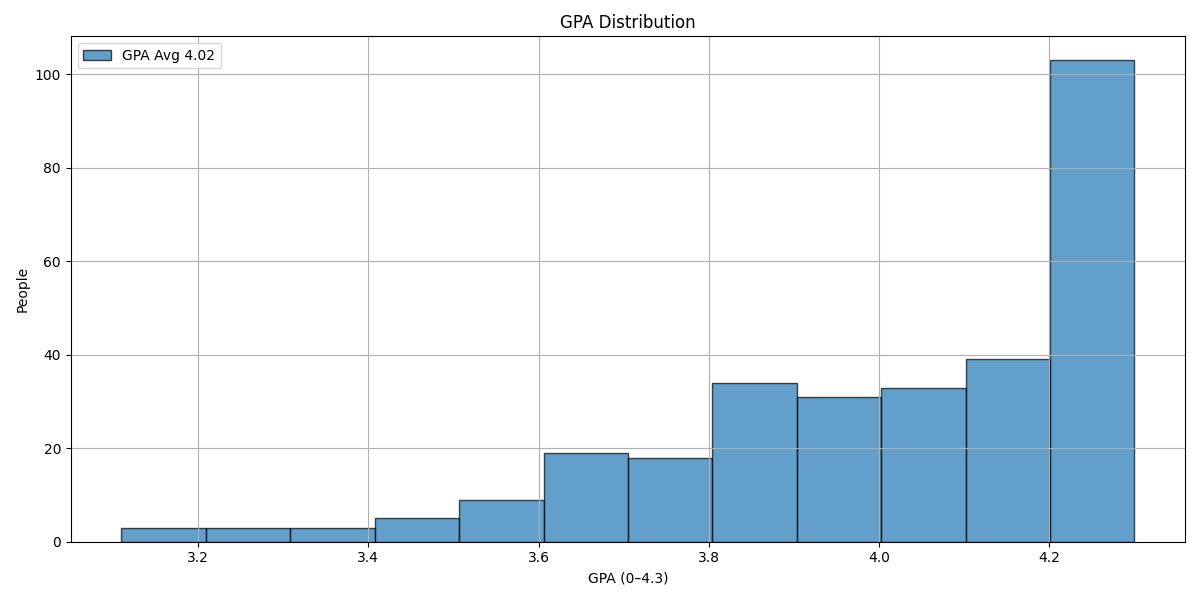
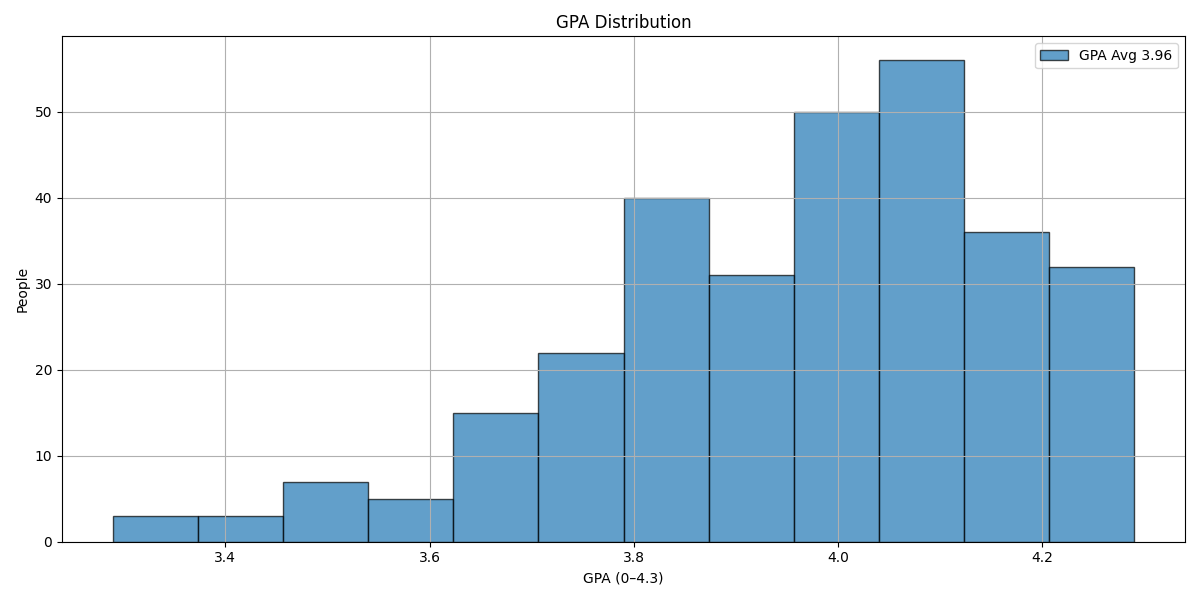
新增玩家成績顯示功能，調整角色行為方法以接受參數，更新 GPA 排行榜及相關圖表

diff --git a/character.py b/character.py
@@ -13,62 +13,80 @@ class Character:
         self.midterm = 0     # 期中考成績
         self.final = 0       # 期末考成績
         self.week_number = 0
-        self.lucky_prof = 0
+        self.lucky_prof = 3
         self.total_score = 0
         self.GPA = 0
         self.chosen = ['0']*17
         self.home = ""
+        self.last_week_change = [0,0,0,0]  # [心情, 體力, 社交, 知識]
 
-    def study(self):
-        growth = round(
+    def study(self, degree):
+        growth = int(
             self.intelligence * 0.11 +
-            self.mood * 0.08 +
-            self.energy * 0.05 +
-            self.social * 0.03, 2
+            self.mood * 0.05 +
+            self.energy * 0.08 +
+            self.social * 0.03
         )
         growth = round(growth/(1+((8 - self.week_number) * 0.1)),2) if self.week_number < 8 else round(growth/(1+((16 - self.week_number) * 0.1)),2)
-        self.knowledge = round(min(100, self.knowledge + growth), 2)
-        self.mood = max(0, self.mood - 10)
-        self.energy = max(0, self.energy - 15)
+        self.last_week_change = [-10, -15, 0, growth+3]
+        self.last_week_change = [int(grow * degree) for grow in self.last_week_change] 
+        
+        self.mood , self.energy , self.social, self.knowledge = \
+            max(0, self.mood + self.last_week_change[0]),\
+            max(0, self.energy + self.last_week_change[1]),\
+            max(0, self.social + self.last_week_change[2]),\
+            min(100, self.knowledge + self.last_week_change[3]) 
     
-        print(f"{self.name} 認真學習中 📖✨ 知識增加了 {growth:.2f} 點！現在是 {self.knowledge}/100")
+        #print(f"{self.name} 認真學習中 📖✨ 知識增加了 {growth:.2f} 點！現在是 {self.knowledge}/100")
 
-    def socialize(self):
-        growth = round(
+    def socialize(self, degree):
+        growth = int(
             (self.social - 30) * 0.1 +
             (self.mood - 50) * 0.03 +
-            (self.energy - 30) * 0.01, 2
+            (self.energy - 30) * 0.01
         )
-        self.social = min(100, self.social + int(growth))
-        if growth > 6:
-            self.knowledge = round(min(100, self.knowledge + growth), 2)
-        self.mood = min(100, self.mood + 5)
-        self.energy = max(0, self.energy - 15)
-        print(f"{self.name} 正在社交中 🤝🎉 社交能力提升了 {growth:.2f} 點！現在是 {self.social}/100")
+        self.last_week_change = [growth, -15, 0, 3+int(round(growth * self.social * 0.01))]
+        self.last_week_change = [int(grow * degree) for grow in self.last_week_change] 
+        
+        self.mood , self.energy , self.social, self.knowledge = \
+            min(100, self.mood + self.last_week_change[0]),\
+            max(0, self.energy + self.last_week_change[1]),\
+            max(0, self.social + self.last_week_change[2]),\
+            min(100, self.knowledge + self.last_week_change[3]) 
 
-    def play_game(self):
-        growth = round(
+        #print(f"{self.name} 正在社交中 🤝🎉 社交能力提升了 {growth:.2f} 點！現在是 {self.social}/100")
+
+    def play_game(self, degree):
+        growth = int(
             (100 - self.mood) * 0.2 +
             (self.intelligence - 50) * 0.02 +
             (self.energy - 30) * 0.01 -
-            (self.social - 30) * 0.01, 2
+            (self.social - 30) * 0.01
         )
-        self.mood = min(100, self.mood + int(growth))
-        self.energy = max(0, self.energy - 5)
-        self.knowledge = round(max(0, self.knowledge - growth * 0.5), 2)
-        print(f"{self.name} 正在玩遊戲 🎮😄 心情提升了 {growth:.2f} 點！現在是 {self.mood}/100")
+        self.last_week_change = [growth, -3, 0, 3+int(round(-growth * 0.1))]
+        self.last_week_change = [int(grow * degree) for grow in self.last_week_change] 
+        self.mood , self.energy , self.social, self.knowledge = \
+            min(100, self.mood + self.last_week_change[0]),\
+            max(0, self.energy + self.last_week_change[1]),\
+            max(0, self.social + self.last_week_change[2]),\
+            max(0, self.knowledge + self.last_week_change[3])
+        #print(f"{self.name} 正在玩遊戲 🎮😄 心情提升了 {growth:.2f} 點！現在是 {self.mood}/100")
 
-    def rest(self):
-        growth = round(
+    def rest(self, degree):
+        growth = int(
             (100 - self.energy) * 0.15 +
             (100 - self.mood) * 0.02 +
             (self.intelligence - 50) * 0.2 -
-            (self.social - 30) * 0.01, 2
+            (self.social - 30) * 0.01
         )
-        self.energy = min(100, self.energy + int(growth))
-        self.mood = min(100, self.mood + int(growth * 0.5))
-        self.knowledge = round(max(0, self.knowledge - growth * 0.3), 2)
-        print(f"{self.name} 正在休息 💤😌 體力提升了 {growth:.2f} 點！現在是 {self.energy}/100")
+        self.last_week_change = [int(growth*0.6), growth, 0, 3+int(round(-growth * 0.1))]
+        self.last_week_change = [int(grow * degree) for grow in self.last_week_change]
+        self.mood , self.energy , self.social, self.knowledge = \
+            min(100, self.mood + self.last_week_change[0]),\
+            min(100, self.energy + self.last_week_change[1]),\
+            max(0, self.social + self.last_week_change[2]),\
+            max(0, self.knowledge + self.last_week_change[3])
+        #print(f"{self.name} 正在休息 💤😌 體力提升了 {growth:.2f} 點！現在是 {self.energy}/100")
 
     def calculate_grade(self):
         score = round(self.knowledge * 0.45 + self.mood * 0.3 + self.energy * 0.2 + self.intelligence * 0.1 , 2)
@@ -83,14 +101,13 @@ class Character:
         return int(round(grade))
 
     def get_final(self):
-        self.final = round(self.calculate_grade())
+        self.final = round(self.calculate_grade()) - 20
 
 
     def calculate_GPA(self):
         total_score = self.midterm * 0.35 + self.final * 0.35 + self.knowledge * 0.3
         total_score = int(math.sqrt(total_score) * 10) 
         self.total_score = total_score
-        self.lucky_prof = random.randint(3, 5)
         gpa = []
         for _ in range(25):
             if random.random() < 0.8:
@@ -126,6 +143,20 @@ class Bubu(Character):
 
         self.sad = "resource/gif/bubu_crying_frames"
         self.playgame = "resource/gif/bubu_playgame_frames"
+
+    def socialize(self, degree):
+        growth = round(
+            (100 - self.social) * 0.1 +
+            (self.mood - 50) * 0.03 +
+            (self.energy - 30) * 0.01, 2
+        )
+        self.last_week_change = [growth, -15, 0, 3+int(round(growth * 0.1))]
+        self.last_week_change = [int(grow * degree) for grow in self.last_week_change]
+        self.mood , self.energy , self.social, self.knowledge = \
+            min(100, self.mood + self.last_week_change[0]),\
+            max(0, self.energy + self.last_week_change[1]),\
+            max(0, self.social + self.last_week_change[2]),\
+            min(100, self.knowledge + self.last_week_change[3])
         
     def get_midterm(self):
         self.midterm = self.calculate_grade() + self.knowledge * 0.4
@@ -135,7 +166,7 @@ class Bubu(Character):
             self.midterm -= 3
         if self.knowledge > 35:
             self.midterm += 8
-        self.midterm = int(round(self.midterm))+20
+        self.midterm = int(round(self.midterm))
 
 
 class Yier(Character):
@@ -161,7 +192,7 @@ class Yier(Character):
             self.midterm -= 3
         if self.knowledge > 40:
             self.midterm += 4
-        self.midterm = int(round(self.midterm))+20
+        self.midterm = int(round(self.midterm))
 
 
 class Mitao(Character):
@@ -184,7 +215,7 @@ class Mitao(Character):
             self.midterm -= 4
         if self.knowledge > 45:
             self.midterm += 5
-        self.midterm = int(round(self.midterm))+20
+        self.midterm = int(round(self.midterm))
 
 
 
@@ -200,6 +231,7 @@ class Huihui(Character):
         self.testing = "resource/gif/huihui_running_frames"
         self.ending = "resource/gif/huihui_flower_frames"
 
+        self.week_number = 15
 
     def get_midterm(self):
         self.midterm = min(100, self.calculate_grade() + self.knowledge * 0.2)
@@ -209,7 +241,7 @@ class Huihui(Character):
             self.midterm -= 3
         if self.knowledge > 30:
             self.midterm += 2
-        self.midterm = int(round(self.midterm))+20
+        self.midterm = int(round(self.midterm))
 
 
 
@@ -224,25 +256,25 @@ def score_to_gpa(score):
 if __name__ == "__main__":
     player = Huihui()
 
-    player.socialize()
-    player.socialize()
-    player.rest()
-    player.play_game()
-    player.study()
-    player.socialize()
-    player.rest()
-    player.study()
+    player.socialize(1)
+    player.socialize(1)
+    player.rest(1)
+    player.play_game(1)
+    player.study(1)
+    player.socialize(1)
+    player.rest(1)
+    player.study(1)
 
     player.get_midterm()
 
-    player.study()
-    player.socialize()
-    player.rest()
-    player.study()
-    player.study()
-    player.rest()
-    player.study()
-    player.study()
+    player.study(1)
+    player.socialize(1)
+    player.rest(1)
+    player.study(1)
+    player.study(1)
+    player.rest(1)
+    player.study(1)
+    player.study(1)
 
     player.get_final()
 

diff --git a/UI/main_scene.py b/UI/main_scene.py
@@ -41,7 +41,7 @@ class MainScene(BaseScene):
             "mood":         (255, 182, 193),  # 粉紅
             "energy":       (144, 238, 144),  # 淺綠
             "social":       (255, 165, 0),    # 橘色
-            "knowledge":    (160, 32, 240)    # 紫色
+            "knowledge":    (221, 160, 221)    # 紫色
         }
 
 
@@ -153,9 +153,27 @@ class MainScene(BaseScene):
         total_width = (x_right - x_left) + 130 + bar_width  # 橫跨兩欄
         fill = max(0, min(1, stats["knowledge"] / 100))
         pygame.draw.rect(self.screen, (200, 200, 200), (x + 65, y, total_width - 130, bar_height), 2)
-        pygame.draw.rect(self.screen, self.bar_colors["knowledge"], (x + 130, y, int((total_width - 130) * fill), bar_height))
+        pygame.draw.rect(self.screen, self.bar_colors["knowledge"], (x + 65, y, int((total_width - 130) * fill), bar_height))
         label = font.render(f"知識 {self.player.knowledge:.0f}/100", True, (0, 0, 0))
         self.screen.blit(label, (x, y + label_offset))
+
+        if self.player.week_number > 0:
+            # 印出玩家選擇改變
+            last_week_change = stats_change(self.player.last_week_change)
+            font2 = pygame.font.Font("resource/font/JasonHandwriting3-Light.ttf", 22)
+            text0 = font2.render("本週選擇改變：", True, (0, 0, 0))
+            text0_rect = text0.get_rect(topleft=(x_right + 60, 90))
+            self.screen.blit(text0, text0_rect)
+            # 心情，知識
+            text1 = font2.render(f"心情 {last_week_change[0]} 知識 {last_week_change[3]}", True, (0, 0, 0))
+            text1_rect = text1.get_rect(topleft=(x_right + 60, 115))
+            self.screen.blit(text1, text1_rect)
+            # 體力，社交
+            text2 = font2.render(f"體力 {last_week_change[1]} 社交 {last_week_change[2]}", True, (0, 0, 0))
+            text2_rect = text2.get_rect(topleft=(x_right + 60, 140))
+            self.screen.blit(text2, text2_rect)
+
+
         
     def draw(self):
         self.screen.blit(self.background, (0, 0))
@@ -235,3 +253,20 @@ class MainScene(BaseScene):
             self.clock.tick(self.FPS)
 
         return None
+    
+
+
+
+def stats_change(list):
+    # 將數字轉換為帶符號的字串
+    # 正數前加 "+"，負數前加 "-"，零則顯示 "-"
+    result = []
+    for change in list:
+        change = int(change)
+        if change > 0:
+            result.append( "+" + str(change))
+        if change == 0:
+            result.append("-")
+        elif change < 0:
+            result.append(str(change))
+    return result

diff --git a/UI/end_scene.py b/UI/end_scene.py
@@ -168,9 +168,26 @@ class EndScene(MainScene):
         total_width = (x_right - x_left) + 130 + bar_width  # 橫跨兩欄
         fill = max(0, min(1, stats["knowledge"] / 100))
         pygame.draw.rect(self.screen, (200, 200, 200), (x + 65, y, total_width - 130, bar_height), 2)
-        pygame.draw.rect(self.screen, self.bar_colors["knowledge"], (x + 130, y, int((total_width - 130) * fill), bar_height))
+        pygame.draw.rect(self.screen, self.bar_colors["knowledge"], (x + 65, y, int((total_width - 130) * fill), bar_height))
         label = font.render(f"知識 {self.player.knowledge:.0f}/100", True, (0, 0, 0))
         self.screen.blit(label, (x, y + label_offset))
+
+        # 印出玩家的總成績
+        font2 = pygame.font.Font("resource/font/JasonHandwriting3-Light.ttf", 22)
+        text0 = font2.render(f"GPA: {self.player.GPA}", True, (0, 0, 0))
+        text0_rect = text0.get_rect(topleft=(x_right + 60, 75))
+        self.screen.blit(text0, text0_rect)
+        # 印出總成績
+        text01 = font2.render(f"Total Score: {self.player.total_score}", True, (0, 0, 0))
+        text01_rect = text0.get_rect(topleft=(x_right + 60, 90))
+        self.screen.blit(text01, text01_rect)
+        #  印出期中考和期末考成績
+        text1 = font2.render(f"Midterm: {self.player.midterm}", True, (0, 0, 0))
+        text1_rect = text1.get_rect(topleft=(x_right + 60, 115))
+        self.screen.blit(text1, text1_rect)
+        text2 = font2.render(f"Final: {self.player.final}", True, (0, 0, 0))
+        text2_rect = text2.get_rect(topleft=(x_right + 60, 140))
+        self.screen.blit(text2, text2_rect)
 
 
 

diff --git a/UI/event_scene.py b/UI/event_scene.py
@@ -79,13 +79,13 @@ class EventScene(BaseScene ):
                 if button[0].handle_event(event):
                     attribute = self.week_data["events"]["options"][button[1]]["attribute"]
                     if "study" in attribute:
-                        self.player.study()
+                        self.player.study(1)
                     if "social" in attribute:
-                        self.player.socialize()
+                        self.player.socialize(1)
                     if "play_game" in attribute:
-                        self.player.play_game()
+                        self.player.play_game(1)
                     if "rest" in attribute:
-                        self.player.rest()
+                        self.player.rest(1)
                     self.player.chosen[self.player.week_number] = button[1]
                     print(f"你選擇了選項 {button[1]}: {button[0].text}")
                     return "finished"
@@ -99,7 +99,7 @@ class EventScene(BaseScene ):
         note_rect_anim.x = int(self.note_anim_x)
         self.screen.blit(self.note_img, note_rect_anim)
 
-        print(pygame.mouse.get_pos())
+        #print(pygame.mouse.get_pos())
     
 
         # 文字滑入

diff --git a/simulation.py b/simulation.py
@@ -42,13 +42,13 @@ class Simulation:
         for _ in range(self.n_players):
             player = random.choice(self.characters)()
             for _ in range(7):
-                getattr(player, random.choice(self.actions))()
+                getattr(player, random.choice(self.actions))(1)
                 player.week_number += 1
 
             player.get_midterm()
 
             for _ in range(7):
-                getattr(player, random.choice(self.actions))()
+                getattr(player, random.choice(self.actions))(1)
                 player.week_number += 1
 
             player.get_final()

diff --git a/UI/story_scene.py b/UI/story_scene.py
@@ -166,6 +166,13 @@ class StoryScene(BaseScene):
             options = ["幸運教授指數3", "幸運教授指數5", "幸運教授指數4"]
             lucky_scene = LuckyWheelScene(self.screen, options)
             result = lucky_scene.run()
+            # 結果是分別對應 3, 5, 4
+            if result == "幸運教授指數3":
+                result = 3
+            elif result == "幸運教授指數5":
+                result = 5
+            elif result == "幸運教授指數4":
+                result = 4
             self.player.lucky_prof = result
             
                     
